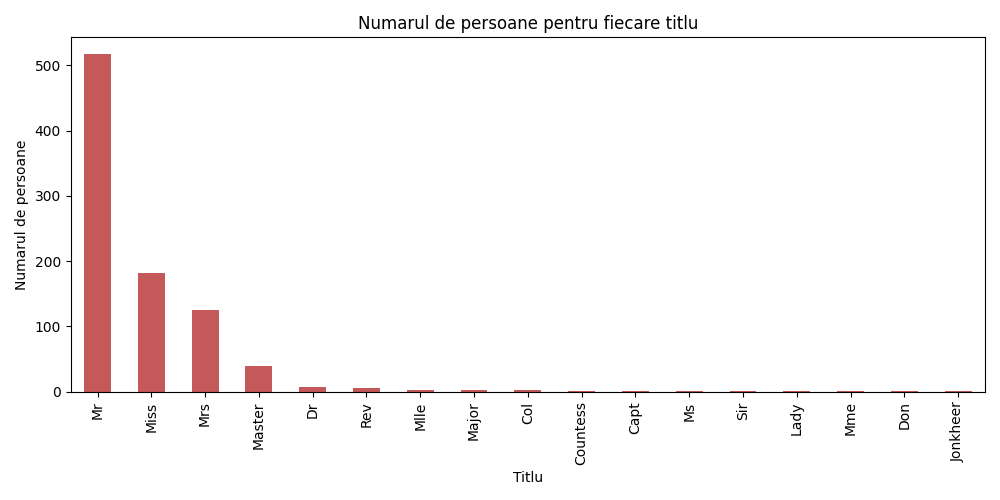
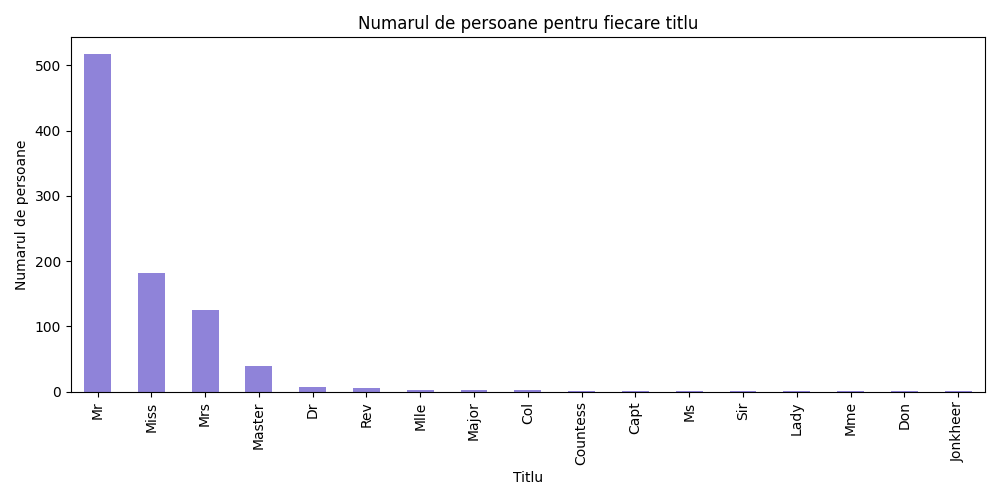
gata tema

Changed region(s): [[0.062, 0.09, 0.279, 0.81], [0.403, 0.78, 0.434, 0.81], [0.31, 0.75, 0.341, 0.78]]

diff --git a/proiect.py b/proiect.py
@@ -5,7 +5,7 @@ import seaborn as sns
 
 # CERINTA 1
 
-# Citirea datelor din fisierul CSV
+# Citirea informatiilor
 data = pd.read_csv('train.csv')
 
 numar_coloane = len(data.columns)
@@ -17,7 +17,8 @@ if linii_duplicate == False:
     linii_duplicate = "Nu"
 else:
     linii_duplicate = "Da"
-# Examinarea structurii setului de date
+
+# Examinarea structurii informatiilor
 print(f"\nNumarul de coloane: {numar_coloane}\n")
 print(f"Tipurile datelor din fiecare coloana:\n{tipuri_date}\n")
 print(f"Numarul de valori lipsa pentru fiecare coloana:\n{valori_lipsa}\n")
@@ -28,8 +29,8 @@ print(f"Exista linii duplicate? {linii_duplicate}\n")
 
 # Procentul persoanelor care au supravietuit si care nu au supravietuit
 rata_supravietuire = data['Survived'].value_counts(normalize=True) * 100
-print(f"Procentul persoanelor care au supraviețuit: {rata_supravietuire[1]:.2f}%\n")
-print(f"Procentul persoanelor care nu au supraviețuit: {rata_supravietuire[0]:.2f}%\n")
+print(f"Procentul persoanelor care au supravietuit: {rata_supravietuire[1]:.2f}%\n")
+print(f"Procentul persoanelor care nu au supravietuit: {rata_supravietuire[0]:.2f}%\n")
 
 # Procentul pasagerilor pentru fiecare tip de clasa
 procent_clasa = ((data['Pclass'].value_counts(normalize=True) * 100)).round(2)
@@ -45,6 +46,7 @@ print(f"Procentul femeilor: {procent_sex['female']:.2f}%\n")
 
 # Grafic pentru prezentarea rezultatelor
 fig, ax = plt.subplots(1, 3, figsize=(18, 5))
+
 sns.barplot(x=rata_supravietuire.index, y=rata_supravietuire.values, ax=ax[0], color='pink', alpha=0.8)
 ax[0].set_title('Procentul de supravietuire')
 ax[0].set_ylabel('Procent')
@@ -67,7 +69,9 @@ print(f"Graficul este salvat in grafic1.png\n")
 
 # Generarea histogramelor pentru coloanele numerice
 coloane_numerice = data.select_dtypes(include=[np.number]).columns
+
 data[coloane_numerice].hist(bins=30, figsize=(12, 10), layout=(3, 3), color=['navy'], alpha=0.75)
+
 plt.suptitle('Histogramele pentru coloanele numerice')
 plt.tight_layout()
 plt.savefig("histograma.png")
@@ -83,14 +87,14 @@ for coloana, valoare in coloane_valori_lipsa.items():
     print(f"{coloana}")
 print('\n')
 
-# Afisarea numarului si proportiei valorilor lipsa pentru fiecare coloana
+# Afisarea numarului si proportiei valorilor lipsa 
 print("Numarul si procentul valorilor lipsa pentru fiecare coloana:\n")
 for coloana, valoare in zip(coloane_valori_lipsa.index, coloane_valori_lipsa.values):
     procent = (valoare / len(data)) * 100
     print(f"Coloana {coloana}: {valoare} valori lipsa, in proportie de {procent:.2f}%")
 print("\n")
 
-# Procentul pentru fiecare dintre cele 2 clase
+# Procentul pentru fiecare clasa
 print("Procentul valorilor lipsa pentru fiecare dintre cele doua clase (coloana Survived):\n") 
 for coloana in coloane_valori_lipsa.index:
     for supravietuit in [0, 1]:
@@ -105,12 +109,12 @@ capete_intreval = [0, 20, 40, 60, data['Age'].max()]
 categorii_varsta = ['0-20', '21-40', '41-60', '61+']
 
 # Cati pasageri avem pentru fiecare categorie
-# Numărarea pasagerilor pentru fiecare categorie de vârstă
+# Numararea pasagerilor
 nr_pasageri_per_categorie = pd.cut(data['Age'], bins=capete_intreval, right=True)
 nr_pasageri_per_categorie = nr_pasageri_per_categorie.value_counts().sort_index()
 nr_pasageri_per_categorie.index = categorii_varsta
 
-print("Numărul de pasageri pentru fiecare categorie de vârstă:\n")
+print("Numarul de pasageri pentru fiecare categorie de varsta:\n\n")
 print(nr_pasageri_per_categorie)
 print('\n')
 
@@ -119,15 +123,14 @@ data['Index'] = pd.cut(data['Age'], bins=capete_intreval, labels=False, right=Tr
 index_categorii = [1, 2, 3, 4]
 data['Index'] = data['Index'].map(dict(zip(range(len(categorii_varsta)), index_categorii)))
 
-# Salvarea setului de date cu coloana suplimentara adaugata
+# Salvarea informatiilor cu coloana suplimentara adaugata
 data.to_csv("train1.csv", index=False)
 
 print("Modificarile sunt vizibile in train1.csv")
 
-# Crearea graficului
+# Graficul pentru numarul de pasageri pentru fiecare categorie de varsta
 fig, ax = plt.subplots(figsize=(6, 5))
 
-# Graficul pentru numărul de pasageri pentru fiecare categorie de vârstă
 ax.bar(index_categorii, nr_pasageri_per_categorie, color='purple', alpha=0.75)
 ax.set_title('Numarul de pasageri pentru fiecare categorie de varsta')
 ax.set_xlabel('Indexul categoriei de varsta')
@@ -135,11 +138,9 @@ ax.set_ylabel('Numarul de pasageri')
 ax.grid(axis='y')
 
 plt.xticks(index_categorii)
-
-# Salvarea graficului
 plt.tight_layout()
 plt.savefig("grafic2.png")
-print("\nGraficul este salvat în grafic2.png\n")
+print("\nGraficul este salvat in grafic2.png\n")
 
 # CERINTA 6
 
@@ -162,12 +163,14 @@ procent_supravietuire_barbati = ((supravietuitori_barbati_per_categorie / total_
 # print('\n')
 
 # Graficul pentru influenta varstei asupra procentului de supravietuire a barbatilor
-fig, ax = plt.subplots(figsize=(6, 5))
+fig, ax = plt.subplots(figsize=(8, 5))
+
 ax.bar(index_categorii, procent_supravietuire_barbati, color='red', alpha=0.75)
 ax.set_title('Procentul de supravietuire al barbatilor in functie de categoria de varsta')
 ax.set_xlabel('Indexul categoriei de varsta')
 ax.set_ylabel('Procentul de supravietuire')
 ax.grid(axis='y')
+
 plt.xticks(index_categorii)
 plt.tight_layout()
 plt.savefig("grafic3.png")
@@ -186,17 +189,21 @@ adulti = data[data['Age'] >= 18]
 
 # Graficul pentru evidentierea ratei de supravietuire pentru copii si pentru adulti
 fig, ax = plt.subplots(figsize=(6, 5))
+
 rata_supravietuire_copii = copii['Survived'].value_counts(normalize=True) * 100
 rata_supravietuire_adulti = adulti['Survived'].value_counts(normalize=True) * 100
+
 # procent_copii_supravietuitori = rata_supravietuire_copii[1]
 # procent_adulti_supravietuitori = rata_supravietuire_adulti[1]
 # print(f"Procent copii supravietuitori: {procent_copii_supravietuitori.round(2)}%")
 # print(f"Procent adulti supravietuitori: {procent_adulti_supravietuitori.round(2)}%")
 # print('\n')
+
 ax.bar(['Copii', 'Adulti'], [rata_supravietuire_copii[1], rata_supravietuire_adulti[1]], color=['darkseagreen', 'darkgreen'], alpha=0.8)
 ax.set_title('Rata de supravietuire pentru copii si pentru adulti')
 ax.set_ylabel('Procent')
 ax.grid(axis='y')
+
 plt.tight_layout()
 plt.savefig("grafic4.png")
 print("Graficul este salvat in grafic4.png\n")
@@ -236,7 +243,6 @@ data_modificari['Index'] = data_modificari['Index'].fillna(0.0)
 
 # Salvarea setului de date cu modificarile adaugate
 data_modificari.to_csv("train2.csv", index=False)
-
 print("Modificarile sunt vizibile in train2.csv\n")
     
 # CERINTA 9
@@ -275,13 +281,13 @@ print('Verificarile titlurilor sunt vizibile in verificare_titluri.csv\n')
 
 # Grafic pentu cate persoane corespund fiecarui titlu
 fig, ax = plt.subplots(figsize=(10, 5))
+
 data_modificari['Title'] = data_modificari['Name'].str.extract('([A-Za-z]+)\.', expand=False)
-data_modificari['Title'].value_counts().plot(kind='bar', color='firebrick', alpha=0.75)
+data_modificari['Title'].value_counts().plot(kind='bar', color='slateblue', alpha=0.75)
 ax.set_title('Numarul de persoane pentru fiecare titlu')
 ax.set_xlabel('Titlu')
 ax.set_ylabel('Numarul de persoane')
+
 plt.tight_layout()
 plt.savefig("grafic5.png")
 print("Graficul este salvat in grafic5.png\n")
-
-# CERINTA 10
